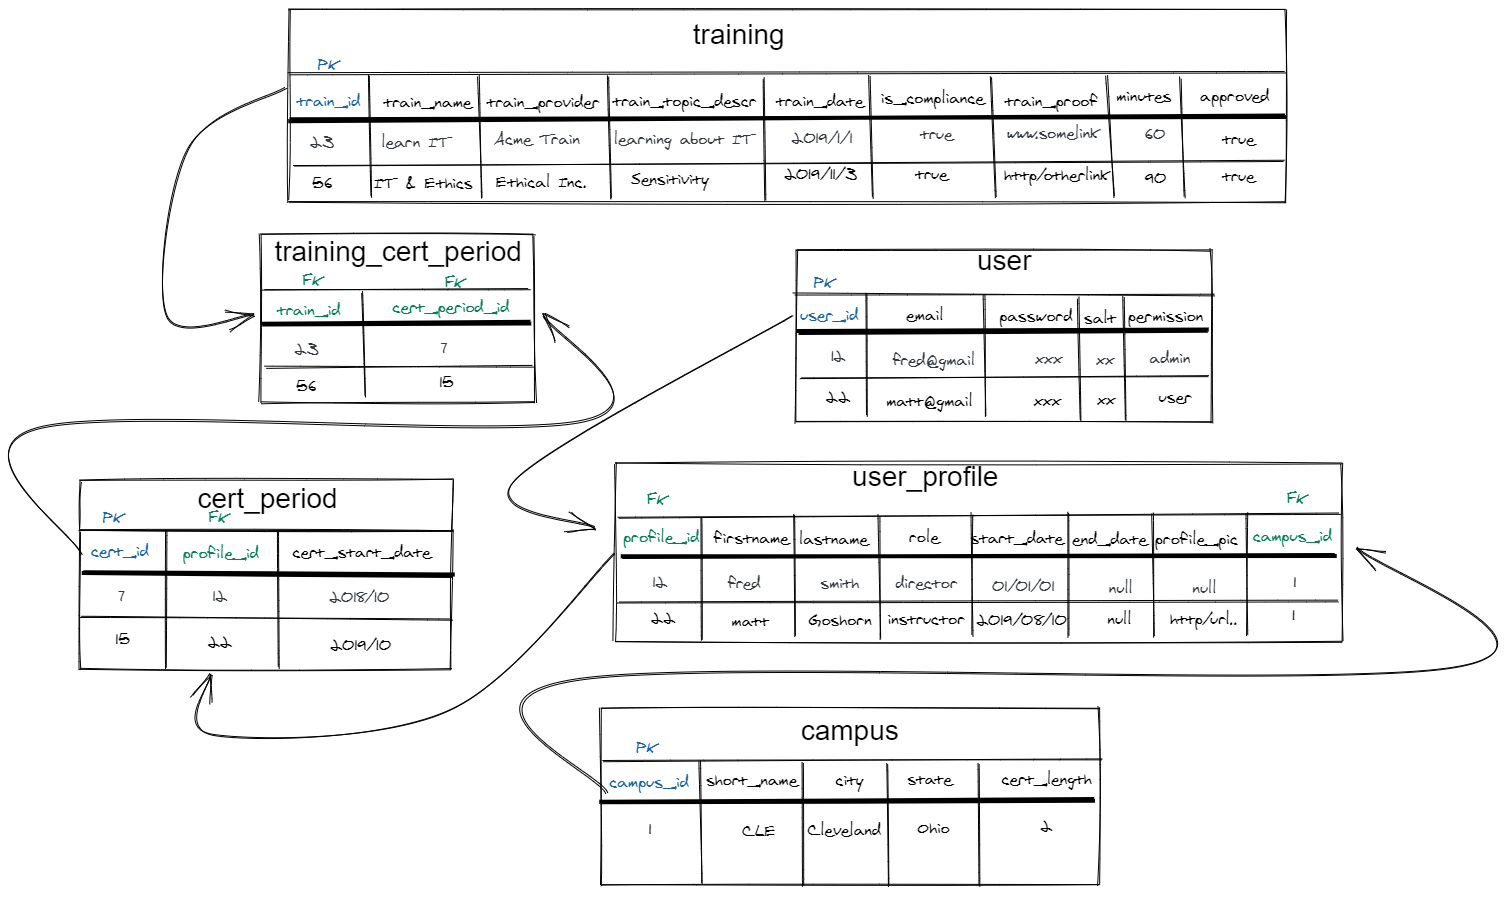
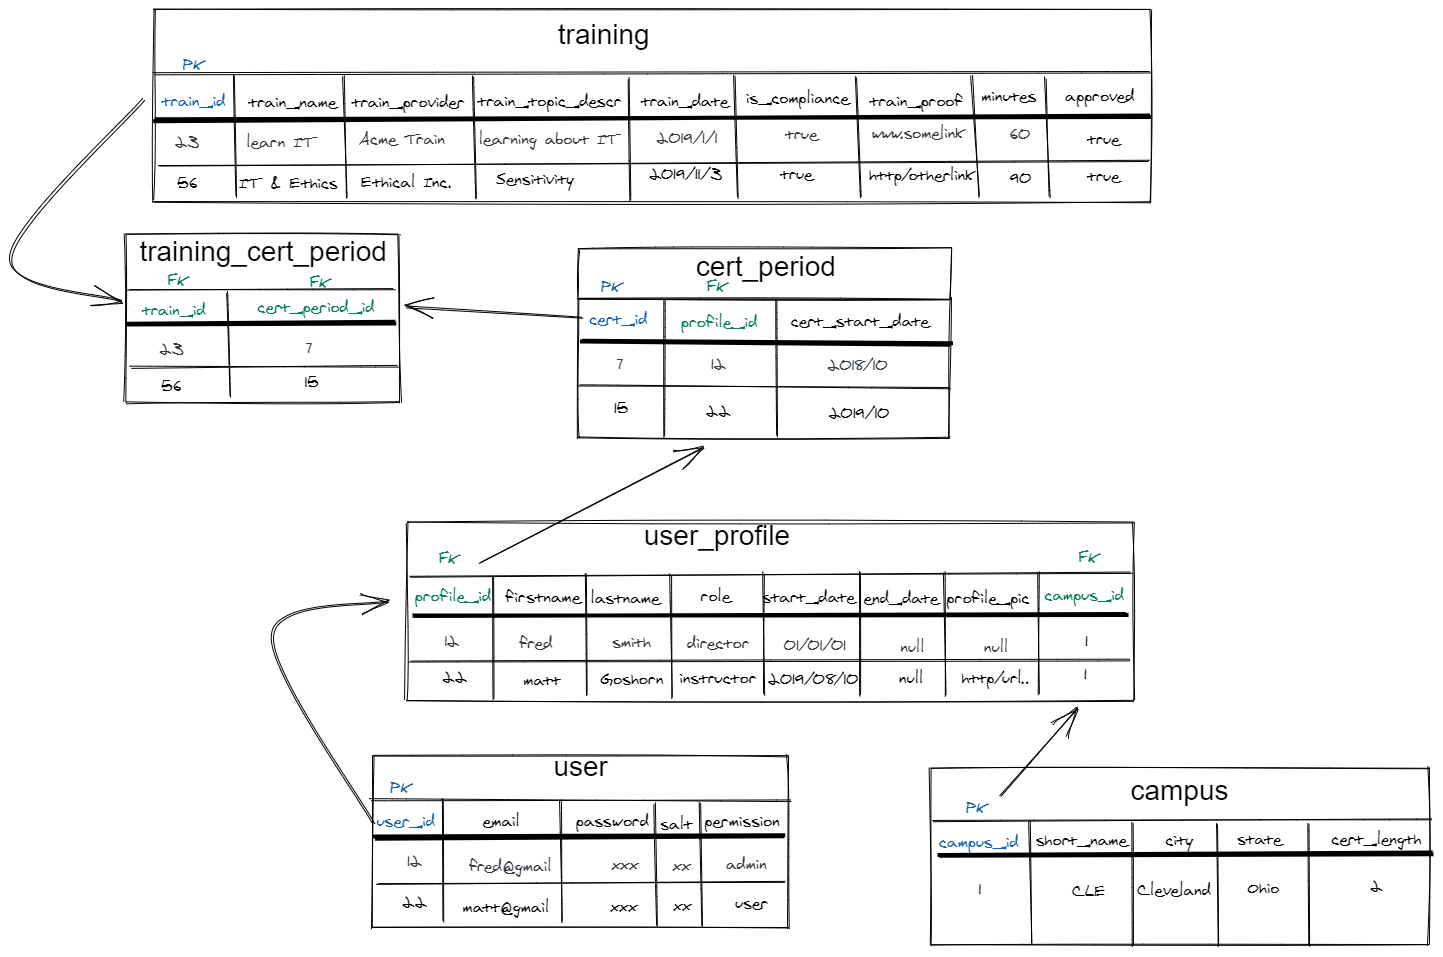
added campus class, added campus to front end

diff --git a/frontend/src/views/ProfileForm.vue b/frontend/src/views/ProfileForm.vue
@@ -5,18 +5,21 @@
         <h1>Create Your Profile</h1>
         <div class="profile-card">
            
-                    <!-- <div class="profileInput"> -->
+                    
                         <span class="label">First Name </span><input type="text" v-model="profile.firstName"><br/>
-                  <!--   </div>
-                    <div class="profileInput"> -->
+                  
                         <span class="label">Last Name </span><input type="text" v-model="profile.lastName"><br/>
-                  <!--   </div>
-                    <div class="profileInput"> -->
+
+                         <span class="label">Select Location </span>
+                        <select v-model="profile.campusShortCode" class="dropdown">
+                        <!-- <option disabled value="">Select Location</option> -->
+                        <option value="CLE" >CLE</option>
+                        </select><br/>
+                 
                         <span class="label">Role </span><input type="text" v-model="profile.role"><br/>
-                  <!--   </div>
-                    <div class="profileInput"> -->
+                  
                         <span class="label">Start Date </span><input type="date" v-model="profile.startDate"><br/>
-                   <!--  </div> -->
+                  
                     <div class="dropzone-div">
                         <span class="profile-label">Profile Picture </span>
                         <vue-dropzone id="dropzone" 
@@ -47,6 +50,7 @@ import 'vue2-dropzone/dist/vue2Dropzone.min.css'
                 profile: {
                     firstName: '',
                     lastName: '',
+                    campusShortCode: '',
                     role: '',
                     startDate: '',
                     profilePic: '',
@@ -147,6 +151,12 @@ input{
     margin:10px;
     border:none;
     border-radius:2px;    
+}
+.dropdown{
+    padding:5px;
+    margin:10px;
+    border:none;
+    border-radius:2px;   
 }
 h1{
     font-weight:lighter;

diff --git a/frontend/src/views/Profile.vue b/frontend/src/views/Profile.vue
@@ -7,6 +7,7 @@
             </div>
             <div id="profile-text" >
                 <h1> {{profile.firstName+" "+profile.lastName}} </h1>
+                <h2><span class="label">Location</span>{{profile.campusShortCode}}</h2>
                 <h2><span class="label">Position</span>{{profile.role}}</h2>
                 <h2><span class="label">Start Date</span>  {{profile.startDate}}</h2>
             </div>
@@ -47,6 +48,7 @@ import TrainingForm from "@/components/TrainingForm.vue"
                      profileId: '',
                      firstName: '',
                      lastName: '',
+                     campusShortCode: '',
                      role: '',
                      startDate: '',
                      profilePic: '',

diff --git a/backend/src/main/java/com/techelevator/userProfile/JdbcUserProfileDao.java b/backend/src/main/java/com/techelevator/userProfile/JdbcUserProfileDao.java
@@ -20,28 +20,28 @@ public class JdbcUserProfileDao implements UserProfileDao {
 		this.myJdbcTemplate = new JdbcTemplate(myDataSource);
 	}
 	
+	@Override
 	public void createUserProfile(UserProfile newProfile, String email) {
 		String insertSql = "INSERT INTO user_profile "
-						 + "(profile_id, firstname, lastname, role, start_date,end_date, profile_pic) "
-						 + "VALUES ((SELECT id from users where email = '"+ email +"'),?,?,?,?,null,?) ";
-		
+						 + "(profile_id, firstname, lastname, role, start_date,end_date, profile_pic, campus_short_code) "
+						 + "VALUES ((SELECT id from users where email = '"+ email +"'),?,?,?,?,null,?,?) ";
 		myJdbcTemplate.update(insertSql,newProfile.getFirstName(),newProfile.getLastName(),
-				   newProfile.getRole(),newProfile.getStartDate(),newProfile.getProfilePic());
+		newProfile.getRole(),newProfile.getStartDate(),newProfile.getProfilePic(),newProfile.getCampusShortCode());
 	}
+	
 	 @Override
 	    public List<UserProfile> getAllProfiles() {
 	        List<UserProfile> profiles = new ArrayList<UserProfile>();
-	        String sqlSelectAllUsers = "SELECT profile_id, firstname, lastname, role, start_date, profile_pic FROM user_profile";
+	        String sqlSelectAllUsers = "SELECT profile_id, firstname, lastname, role, start_date, profile_pic, campus_short_code FROM user_profile";
 	        SqlRowSet results = myJdbcTemplate.queryForRowSet(sqlSelectAllUsers);
-
 	        while (results.next()) {
 	            UserProfile aProfile = mapRowToProfile(results);
 	            profiles.add(aProfile);
 	        }
-
 	        return profiles;
 	    }
-	
+	 
+	@Override
 	public UserProfile getProfileById(int id) {
 		UserProfile myProfile = new UserProfile();
 		String sqlProfile = "SELECT * FROM user_profile WHERE profile_id = '" + id + "' ";
@@ -50,8 +50,8 @@ public class JdbcUserProfileDao implements UserProfileDao {
 			myProfile = mapRowToProfile(sqlResult);
 		}
 		return myProfile;
-		
 	}
+	
 	private UserProfile mapRowToProfile(SqlRowSet result) {
 		UserProfile newProfile = new UserProfile();
 		newProfile.setProfileId(result.getInt("profile_id"));
@@ -60,6 +60,7 @@ public class JdbcUserProfileDao implements UserProfileDao {
 		newProfile.setRole(result.getString("role"));
 		newProfile.setStartDate(result.getDate("start_date"));
 		newProfile.setProfilePic(result.getString("profile_pic"));
+		newProfile.setCampusShortCode(result.getString("campus_short_code"));
 		return newProfile;
 	}
 

diff --git a/backend/src/main/java/com/techelevator/userProfile/UserProfile.java b/backend/src/main/java/com/techelevator/userProfile/UserProfile.java
@@ -12,11 +12,12 @@ import java.util.Date;
 	private Date startDate;
 	private Date endDate;
 	private String profilePic;
+	private String campusShortCode;
 	
 	public UserProfile() {
 		
 	}
-	public UserProfile( String firstName, String lastName, String role, Date startDate, Date endDate, String profilePic) {
+	public UserProfile( String firstName, String lastName, String role, Date startDate, Date endDate, String profilePic, String campusShortCode) {
 		super();
 		this.firstName = firstName;
 		this.lastName = lastName;
@@ -24,13 +25,10 @@ import java.util.Date;
 		this.startDate =  startDate; 
 		this.endDate =  endDate;
 		this.profilePic = profilePic;
-	}
+		this.campusShortCode= campusShortCode;
+		}
 	
-	@Override
-	public String toString() {
-		return "UserProfile [firstName=" + firstName + ", lastName=" + lastName + ", role=" + role + ", startDate="
-				+ startDate + ", endDate=" + endDate + ", profilePic=" + profilePic + "]";
-	}
+	
 	public long getProfileId() {
 		return profileId;
 	}
@@ -85,6 +83,12 @@ import java.util.Date;
 
 	public void setProfilePic(String profilePic) {
 		this.profilePic = profilePic;
+	}
+	public String getCampusShortCode() {
+		return campusShortCode;
+	}
+	public void setCampusShortCode(String campusShortCode) {
+		this.campusShortCode = campusShortCode;
 	}
 
 	

diff --git a/backend/src/main/java/com/techelevator/campus/Campus.java b/backend/src/main/java/com/techelevator/campus/Campus.java
@@ -1,0 +1,41 @@
+package com.techelevator.campus;
+
+public class Campus {
+	
+	
+	private String shortName;
+	private String city;
+	private String state;
+	private int certLength;
+	
+	
+	
+	
+	public String getShortName() {
+		return shortName;
+	}
+	public void setShortName(String shortName) {
+		this.shortName = shortName;
+	}
+	public String getCity() {
+		return city;
+	}
+	public void setCity(String city) {
+		this.city = city;
+	}
+	public String getState() {
+		return state;
+	}
+	public void setState(String state) {
+		this.state = state;
+	}
+	public int getCertLength() {
+		return certLength;
+	}
+	public void setCertLength(int certLength) {
+		this.certLength = certLength;
+	}
+	
+	
+
+}

diff --git a/backend/src/main/java/com/techelevator/controller/ApiController.java b/backend/src/main/java/com/techelevator/controller/ApiController.java
@@ -54,10 +54,6 @@ public class ApiController {
       @RequestMapping(path = "/createProfile", method = RequestMethod.POST) 
       public void addUserProfile(@RequestBody UserProfile aUserProfile) {
     	  String email = authProvider.getCurrentUser().getEmail();
-//			UserProfile newProfile = new UserProfile( 	aUserProfile.getFirstName(),aUserProfile.getLastName()
-//																				   ,aUserProfile.getRole(),aUserProfile.getStartDate()
-//																				   ,aUserProfile.getEndDate(),aUserProfile.getProfilePic()
-//	        		   															); 
         userProfileDao.createUserProfile( aUserProfile , email );   
 	  }
       

diff --git a/backend/src/main/java/com/techelevator/campus/JdbcCampus.java b/backend/src/main/java/com/techelevator/campus/JdbcCampus.java
@@ -1,0 +1,5 @@
+package com.techelevator.campus;
+
+public class JdbcCampus implements CampusDao {
+
+}

diff --git a/backend/src/main/java/com/techelevator/campus/CampusDao.java b/backend/src/main/java/com/techelevator/campus/CampusDao.java
@@ -1,0 +1,5 @@
+package com.techelevator.campus;
+
+public interface CampusDao {
+
+}
